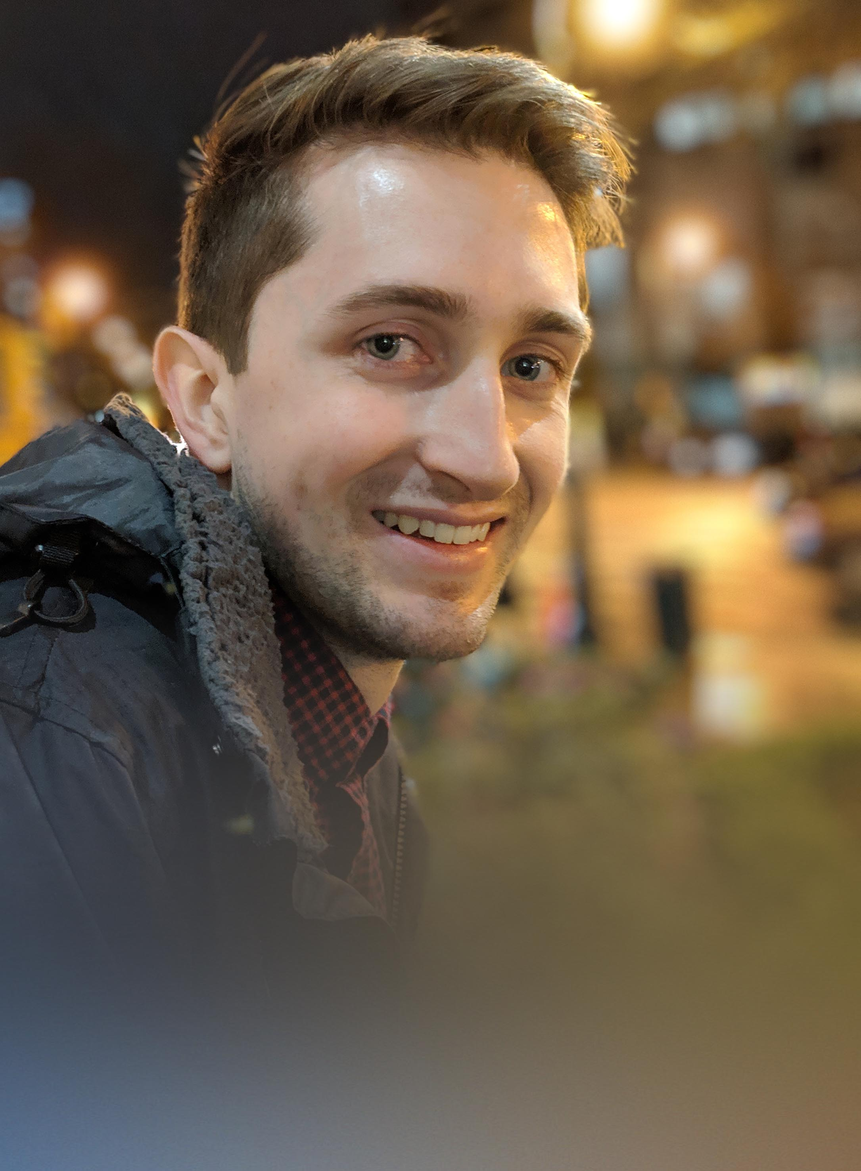
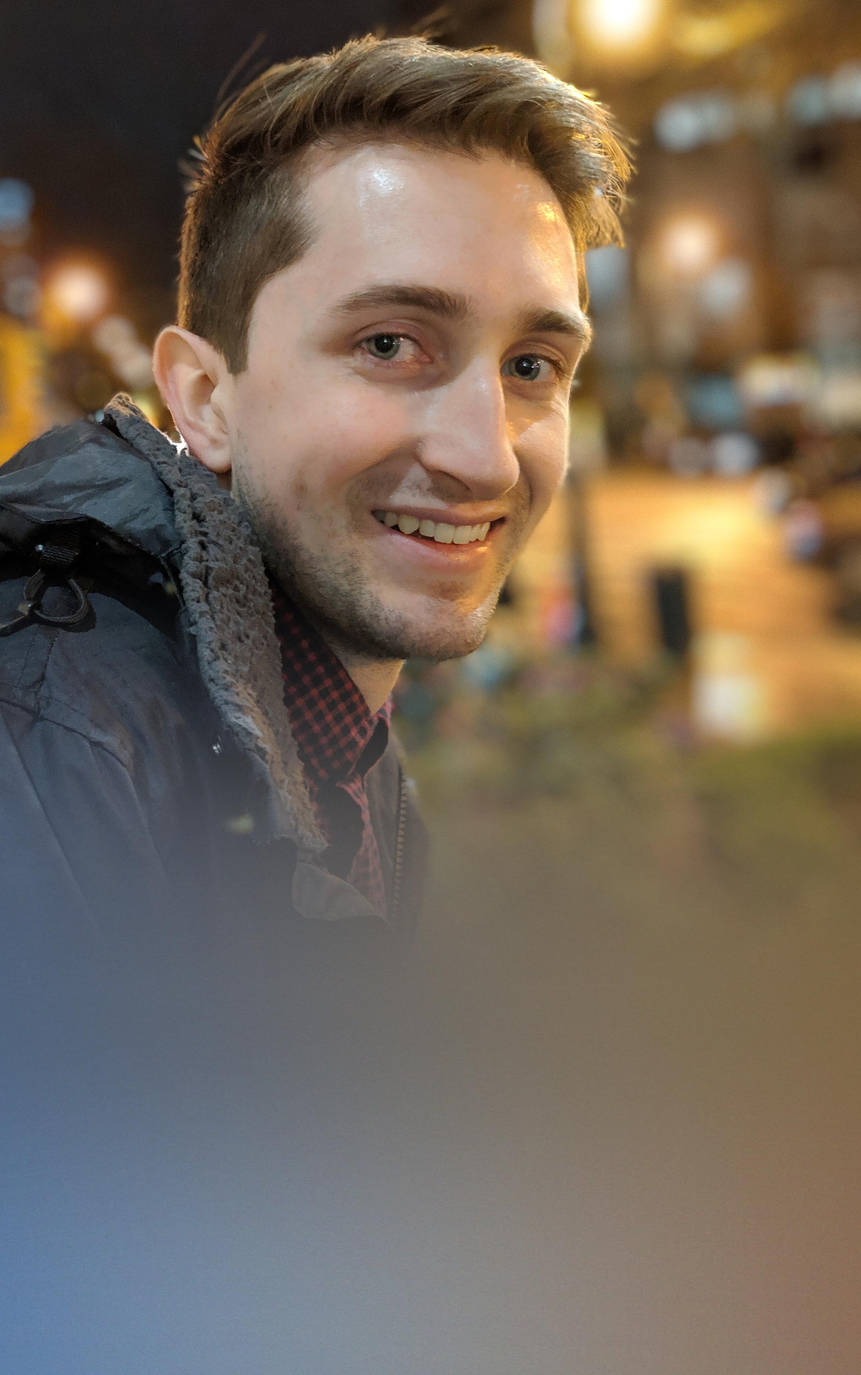
profile padding

diff --git a/index.html b/index.html
@@ -42,8 +42,8 @@
 					<section id="banner">
 						<div class="overlay"></div>
 						<video id="myVideo" preload="true" muted loop>
-							<source src="landing.mp4" type="video/mp4">
 							<source src="landing.webm" type="video/webm">
+							<source src="landing.mp4" type="video/mp4">
 						</video>
 						<div class="inner">
 							<h2>DOUGLAS CURLEY</h2>
@@ -92,7 +92,7 @@
 								</div></a>
 							</article>
 							<article class="from-right">
-								<a href="assets/videos/DC_FB_Portal.mp4" data-poptrox="iframe,800x480" class="image fit"><img src="images/thumbs/portal.png" title="Facebook Portal" alt="" /><div class="overlay">
+								<a href="assets/videos/DC_FB_Portal.mp4" data-poptrox="iframe" class="image fit"><img src="images/thumbs/portal.png" title="Facebook Portal" alt="" /><div class="overlay">
 									<h5>Facebook Portal</h5>
 								</div></a>
 							</article>

diff --git a/assets/css/main.css b/assets/css/main.css
@@ -3226,7 +3226,7 @@ body.is-mobile .main.style2 .button.anchored {
 				}
 
 			.main.style2 {
-				padding: 20em .2em 5em .2em;
+				padding: 22em .2em 2em .2em;
 			}
 
 				.main.style2:before, .main.style2:after {
@@ -4153,6 +4153,7 @@ display: block;
 	opacity: 1;
 } */
 
+	
 .gallery .from-left .overlay {
 	position: absolute;
   top: 0;
